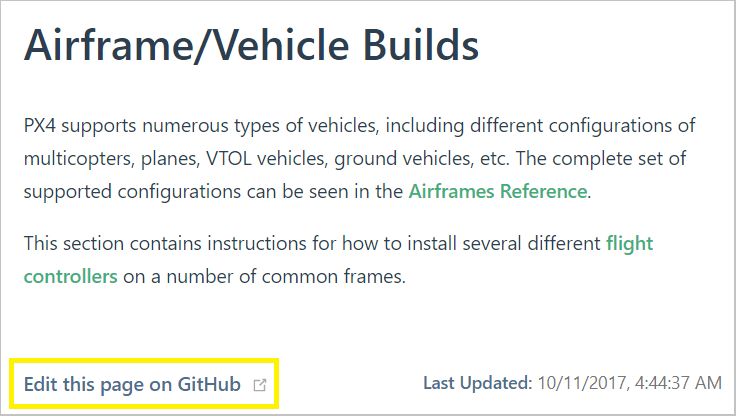
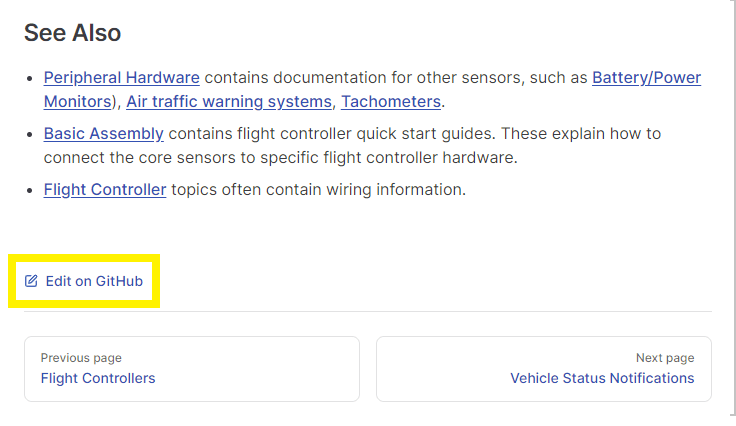
Fix up docs for editing with vitepress

diff --git a/en/contribute/docs.md b/en/contribute/docs.md
@@ -13,17 +13,16 @@ You will need a (free) [Github](https://github.com/) account to contribute to th
 
 ## Quick Changes in Github
 
-Simple changes to _existing content_ can be made by clicking the **Edit this page on GitHub** link that appears at the bottom of every page (this opens the page on Github for editing).
+Simple changes to _existing content_ can be made by clicking the **Edit on GitHub** link that appears at the bottom of every page (this opens the page on Github for editing).
 
-![Vuepress: Edit Page button](../../assets/vuepress/vuepress_edit_page_on_github_link.png)
+![Vitepress: Edit Page button](../../assets/vuepress/vuepress_edit_page_on_github_link.png)
 
 To edit an existing page:
 
 1. Open the page.
-1. Click the **Edit this page on GitHub** link below the page content.
+1. Click the **Edit on GitHub** link below the page content.
 1. Make the desired change.
-1. Below the Github page editor you'll be prompted to create a separate branch and then
-   guided to submit a _pull request_.
+1. Below the Github page editor you'll be prompted to create a separate branch and then guided to submit a _pull request_.
 
 The documentation team will review the request and either merge it or work with you to update it.
 
@@ -36,7 +35,7 @@ For these kinds of changes we suggest using the same approach as for _code_:
 
 1. Use the _git_ toolchain to get the documentation source code onto your local computer.
 1. Modify the documentation as needed (add, change, delete).
-1. _Test_ that it builds properly using Vuepress.
+1. _Test_ that it builds properly using Vitepress.
 1. Create a branch for your changes and create a pull request (PR) to pull it back into the documentation.
 
 The following explain how to get the source code, build locally (to test), and modify the code.
@@ -120,18 +119,9 @@ The instructions below explain how to get git and use it on your local computer.
 
 Build the library locally to test that any changes you have made have rendered properly:
 
-1. Install the [Vuepress prerequiresites](https://vuepress.vuejs.org/guide/getting-started.html#prerequisites):
+1. Install the [Vitepress prerequisites](https://vitepress.dev/guide/getting-started#prerequisites):
 
-   - [Nodejs 10+](https://nodejs.org/en)
-
-     ::: info
-     For recent nodejs versions (after v16.15.0) you need to enable the node legacy OpenSSL provider.
-     On Ubuntu you can do this by running the terminal command:
-
-     ```sh
-     export NODE_OPTIONS=--openssl-legacy-provider
-     ```
-
+   - [Nodejs 18+](https://nodejs.org/en)
    - [Yarn classic](https://classic.yarnpkg.com/en/docs/install)
 
 1. Navigate to your local repository:
@@ -140,7 +130,7 @@ Build the library locally to test that any changes you have made have rendered p
    cd ~/wherever/PX4-user_guide
    ```
 
-1. Install dependencies (including Vuepress):
+1. Install dependencies (including Vitepress):
 
    ```sh
    yarn install
@@ -149,13 +139,14 @@ Build the library locally to test that any changes you have made have rendered p
 1. Preview and serve the library:
 
    ```sh
-   yarn docs:dev
+   yarn start
    ```
 
-   - Now you can browse the guide on http://localhost:8080/px4_user_guide/
+   - Once the development/preview server has built the library (less than a minute for the first time) it will show you the URL you can preview the site on.
+     This will be something like: `http://localhost:5173/px4_user_guide/`.
    - Stop serving using **CTRL+C** in the terminal prompt.
 
-1. Build the library using:
+1. You can build the library as it would be done for deployment:
 
    ```sh
    # Ubuntu
@@ -166,23 +157,23 @@ Build the library locally to test that any changes you have made have rendered p
    ```
 
 :::tip
-Use `yarn docs:dev` to preview changes _as you make them_ (documents are updated and served very quickly).
-Before submitting a PR you should also build it using `docs:build`, as this can highlight issues that are not visible when using `docs:dev`.
+Use `yarn start` to preview changes _as you make them_ (documents are updated and served very quickly).
+Before submitting a PR you should also build it using `yarn docs:build`, as this can highlight issues that are not visible when using `yarn start`.
 :::
 
 ### Source Code Structure
 
-The guide uses the [Vuepress](https://vuepress.vuejs.org/) toolchain.
-The PX4 User Guide has some minor differences, mostly related to configuration and setup.
+The guide uses the [Vitepress](https://vitepress.dev/) toolchain.
 
 In overview:
 
 - Pages are written in separate files using markdown.
   - The syntax is almost the same as that used by the Github wiki.
-  - Vuepress also supports some [markdown extensions](https://vuepress.vuejs.org/guide/markdown.html).
-    We try and avoid using these, except for [tips, warning, etc.](https://vuepress.vuejs.org/guide/markdown.html#custom-containers).
-- This is a [multilingual](https://vuepress.vuejs.org/guide/i18n.html#default-theme-i18n-config) book:
-  - Pages for each language are stored in the folder named for the associated language code (e.g. "zh" for Chinese, "ko" for Korean).
+  - Vitepress also supports some [markdown extensions](https://vitepress.dev/guide/markdown#markdown-extensions).
+    We try and avoid using these, except for [tips, warning, etc.](https://vitepress.dev/guide/markdown#default-title).
+    This might be revisited - there are some interesting options provided!
+- This is a [multilingual](https://vitepress.dev/guide/i18n) book:
+  - Pages for each language are stored in the folder named for the associated language code (e.g. "en" for English, "zh" for Chinese, "ko" for Korean).
   - Only edit the ENGLISH (**/en**) version of files.
     We use [Crowdin](../contribute/translation.md) to manage the translations.
 - All pages must be in an appropriately named sub-folder of **/en** (e.g. this page is in folder **en/contribute/**).
@@ -192,7 +183,7 @@ In overview:
   - If you add a new page to the guide you must also add an entry to this file!
 
     :::tip
-    This is not "standard vuepress" way to define the sidebar (the summary file is imported by [.vuepress/get_sidebar.js](https://github.com/PX4/PX4-user_guide/blob/main/.vuepress/get_sidebar.js)).
+    This is not "standard vitepress" way to define the sidebar (the summary file is imported by [.vitepress/get_sidebar.js](https://github.com/PX4/PX4-user_guide/blob/main/.vitepress/get_sidebar.js)).
     :::
 
 - Images must be stored in a sub folder of **/assets**.
@@ -222,8 +213,7 @@ When you add a new page you must also add it to **en/SUMMARY.md**!
 2. Images
 
    - Use the smallest size and lowest resolution that makes the image still useful (this reduces download cost for users with poor bandwidth).
-   - New images should be created in a sub-folder of **/assets/** by default
-     (so they can be shared between translations).
+   - New images should be created in a sub-folder of **/assets/** by default (so they can be shared between translations).
 
 3. Content:
 
